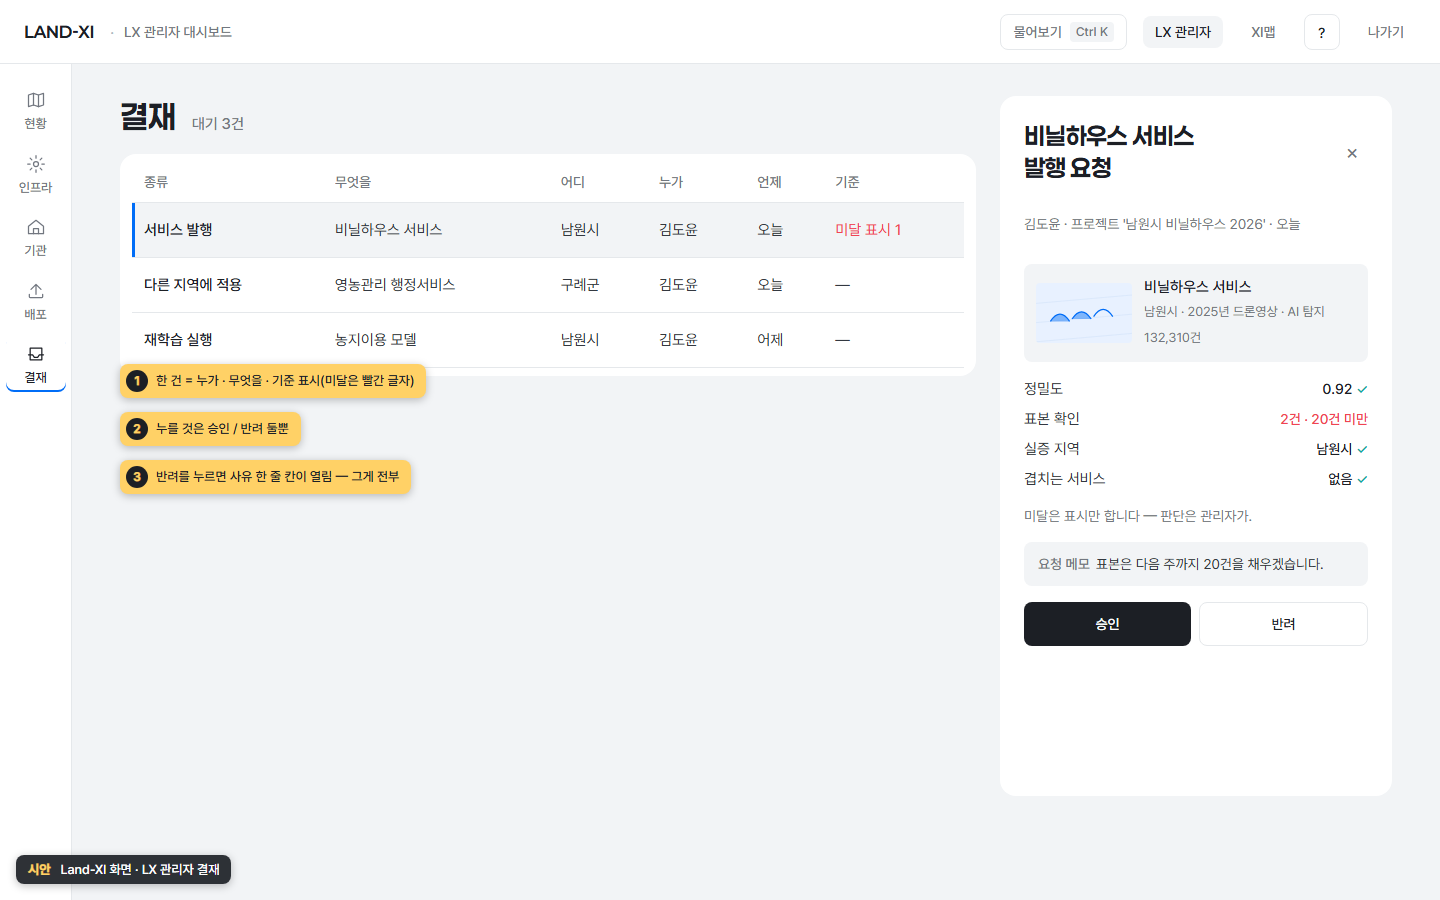
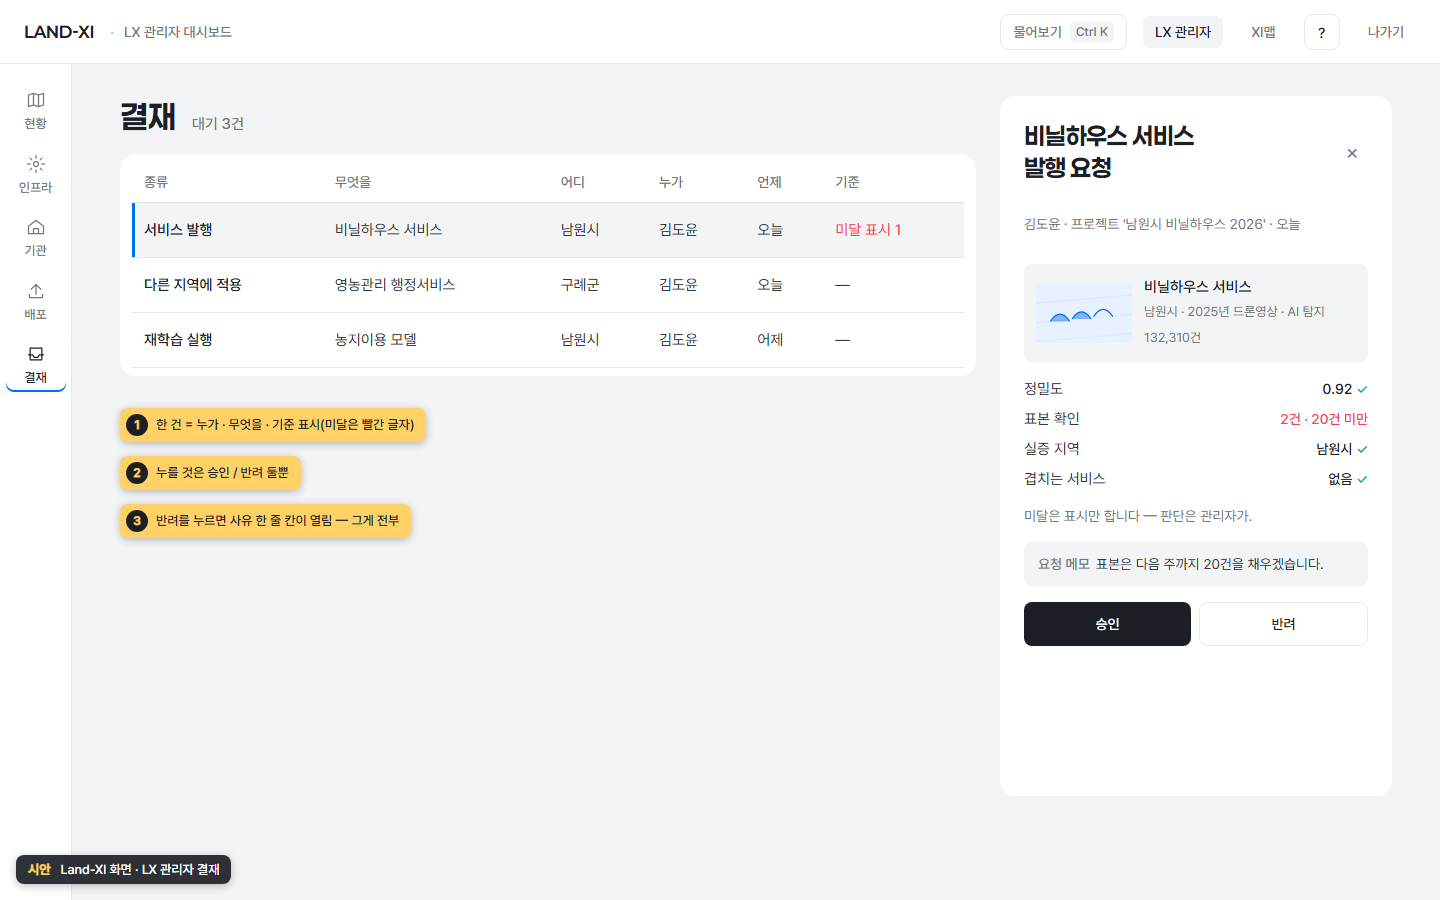
확인 요청 4차 시안 그림: 겹침·잘림 고침
Claude-Session: https://claude.ai/code/session_012dngviZxpCDduyLESvgdha

Changed region(s): [[0.0625, 0.4044, 0.3125, 0.6222]]

diff --git a/docs/superpowers/final/process/design-r4/mock/06-flow.html b/docs/superpowers/final/process/design-r4/mock/06-flow.html
@@ -5,12 +5,13 @@
 <title>그림 · 프로젝트와 서비스 카드 발행의 관계 — 프로젝트 안에서 만들고, 발행은 관리자가 승인</title>
 <link rel="stylesheet" href="mock.css">
 <style>
+body.m{height:710px}
 .wrap{position:absolute;inset:0;padding:40px 48px}
 h1{margin:0 0 6px;font:700 32px/42px var(--font-display);letter-spacing:-.01em;color:var(--ink)}
 .lead{margin:0 0 28px;font:400 16px/26px var(--font-body);color:var(--sub-2)}
-.stage{position:relative;height:560px}
+.stage{position:relative;height:500px}
 .box{position:absolute;background:var(--bg-1);border-radius:16px;padding:24px}
-.proj{left:0;top:0;width:880px;height:300px}
+.proj{left:0;top:116px;width:880px;height:280px}
 .proj .ttl{display:flex;align-items:baseline;gap:12px;margin-bottom:8px}
 .proj .ttl b{font:700 24px/32px var(--font-display);letter-spacing:-.02em;color:var(--ink)}
 .proj .ttl span{font:400 14px/20px var(--font-body);color:var(--sub)}
@@ -26,22 +27,24 @@ h1{margin:0 0 6px;font:700 32px/42px var(--font-display);letter-spacing:-.01em;c
 .st .t{font:500 15px/22px var(--font-body);color:var(--ink)}
 .st .d{font:400 13px/18px var(--font-body);color:var(--sub)}
 .st.now .t{font-weight:700}
-.adm{left:960px;top:0;width:384px;height:140px}
-.gov{left:960px;top:160px;width:384px;height:140px}
+.adm{left:960px;top:116px;width:384px;height:130px}
+.gov{left:960px;top:266px;width:384px;height:130px}
 .box h3{margin:0 0 6px;font:700 20px/28px var(--font-display);letter-spacing:-.01em;color:var(--ink)}
 .box p{margin:0;font:400 14px/21px var(--font-body);color:var(--sub-2)}
 .box p b{font-weight:500;color:var(--ink)}
-.band{position:absolute;top:340px;height:110px;border-radius:16px;padding:20px 24px;background:var(--bg-0);border:1.5px dashed var(--mute)}
+.band{position:absolute;top:0;height:92px;border-radius:16px;padding:16px 24px;background:var(--bg-0);border:1.5px dashed var(--mute)}
 .band.b1{left:0;width:880px}
 .band.b2{left:960px;width:384px}
 .band h4{margin:0 0 6px;font:500 18px/26px var(--font-body);color:var(--ink)}
 .band p{margin:0;font:400 14px/21px var(--font-body);color:var(--sub-2)}
 .arrows{position:absolute;inset:0;pointer-events:none;overflow:visible}
 .arrows path{fill:none;stroke:var(--ink);stroke-width:2}
+.arrows marker path{stroke:none;fill:var(--ink)}
+.arrows marker#w path{fill:#F04452}
 .arrows text{font:500 13px var(--font-body);fill:var(--ink)}
 .arrows .back path{stroke:var(--warn);stroke-dasharray:6 5}
 .arrows .back text{fill:var(--warn)}
-.legend{position:absolute;left:0;top:480px;display:flex;gap:24px;font:400 14px/20px var(--font-body);color:var(--sub)}
+.legend{position:absolute;left:0;top:478px;display:flex;gap:24px;font:400 14px/20px var(--font-body);color:var(--sub)}
 .legend i{display:inline-block;width:10px;height:10px;border-radius:50%;background:var(--accent);margin-right:6px;vertical-align:middle}
 .legend i.w{background:var(--warn)}
 </style>
@@ -53,10 +56,10 @@ h1{margin:0 0 6px;font:700 32px/42px var(--font-display);letter-spacing:-.01em;c
   <div class="stage">
     <div class="box proj">
       <div class="ttl"><b>프로젝트</b><span>예: 남원시 비닐하우스 2026 · 프로젝트장 김도윤</span></div>
-      <p class="who">직원이 바로 만듭니다(승인 없음) · 입력은 이름 · 무엇을 · 어디 세 가지 · 학습데이터(라벨링 · 검수)도 이 안에서</p>
+      <p class="who">직원이 바로 만듭니다(승인 없음) · 입력은 이름 · 무엇을 · 어디 세 가지 · 학습데이터(라벨링 · 확인)도 이 안에서</p>
       <div class="steps">
         <div class="st"><span class="c">1</span><span class="t">데이터 올리기</span><span class="d">영상 · 행정 자산</span></div>
-        <div class="st new"><span class="tag">새로 넣는 단계</span><span class="c">2</span><span class="t">학습데이터 구축</span><span class="d">라벨링 · 검수</span></div>
+        <div class="st new"><span class="tag">새로 넣는 단계</span><span class="c">2</span><span class="t">학습데이터 구축</span><span class="d">라벨링 · 확인</span></div>
         <div class="st"><span class="c">3</span><span class="t">학습</span><span class="d">표본 → 모델</span></div>
         <div class="st"><span class="c">4</span><span class="t">모델</span><span class="d">정밀도 확인</span></div>
         <div class="st"><span class="c">5</span><span class="t">결과 확인</span><span class="d">실증 지역 표본</span></div>
@@ -79,16 +82,16 @@ h1{margin:0 0 6px;font:700 32px/42px var(--font-display);letter-spacing:-.01em;c
       <h4>발행 후 — LX 관리자가 맡습니다</h4>
       <p>갱신을 관리하고, 필요하면 재학습을 지시합니다.</p>
     </div>
-    <svg class="arrows" viewBox="0 0 1344 560" aria-hidden="true">
+    <svg class="arrows" viewBox="0 0 1344 500" aria-hidden="true">
       <defs><marker id="a" viewBox="0 0 10 10" refX="9" refY="5" markerWidth="8" markerHeight="8" orient="auto"><path d="M0 0L10 5 0 10z" fill="var(--ink)"/></marker>
       <marker id="w" viewBox="0 0 10 10" refX="9" refY="5" markerWidth="8" markerHeight="8" orient="auto"><path d="M0 0L10 5 0 10z" fill="#F04452"/></marker></defs>
-      <path d="M880 70 H958" marker-end="url(#a)"/>
-      <text x="892" y="60">요청</text>
-      <path d="M1152 140 V158" marker-end="url(#a)"/>
-      <text x="1162" y="154">승인</text>
+      <path d="M880 181 H958" marker-end="url(#a)"/>
+      <text x="892" y="171">요청</text>
+      <path d="M1152 246 V264" marker-end="url(#a)"/>
+      <text x="1162" y="260">승인</text>
       <g class="back">
-        <path d="M960 460 C 800 460, 560 470, 420 470 C 340 470, 320 400, 320 320" marker-end="url(#w)"/>
-        <text x="560" y="452">재학습 지시 → 같은 프로젝트의 학습데이터 구축·학습 단계로(2차)</text>
+        <path d="M1152 398 V440 H300 V400" marker-end="url(#w)"/>
+        <text x="316" y="463">재학습 지시 → 같은 프로젝트의 학습데이터 구축·학습 단계로(2차)</text>
       </g>
     </svg>
     <div class="legend"><span><i></i>지금 물어보는 단계(발행 요청)</span><span><i class="w"></i>발행 뒤 관리자가 시키는 재학습</span></div>

diff --git a/docs/superpowers/final/process/design-r4/mock/L1-step.html b/docs/superpowers/final/process/design-r4/mock/L1-step.html
@@ -2,7 +2,7 @@
 <html lang="ko">
 <head>
 <meta charset="utf-8">
-<title>시안 ⓐ · Land-XI LX 직원 — 프로젝트 단계 '학습데이터 구축(라벨링·검수)' 안에서 라벨 도구가 열림</title>
+<title>시안 ⓐ · Land-XI LX 직원 — 프로젝트 단계 '학습데이터 구축(라벨링·확인)' 안에서 라벨 도구가 열림</title>
 <link rel="stylesheet" href="mock.css">
 <style>
 .m-rail--steps .m-rail-i{padding:4px 0}
@@ -49,28 +49,28 @@
     <div class="page">
       <div class="crumb"><h1>학습데이터 구축</h1><span>남원시 비닐하우스 2026 · 남원시 · 2025년 드론영상</span></div>
       <section class="tool">
-        <div class="bar">라벨 도구<span>자동 라벨 → 검수 → 학습 표본</span><span class="t-chip">이 화면 안에서 열림</span></div>
+        <div class="bar">라벨 도구<span>자동 라벨 → 확인 → 학습 표본</span><span class="t-chip">이 화면 안에서 열림</span></div>
         <div class="body"></div>
       </section>
       <aside class="side">
         <div class="card">
           <h3>이 단계에서 하는 일</h3>
           <div class="r">자동 라벨 <span>AI가 먼저 그림</span></div>
-          <div class="r">검수 <span>직원이 맞는지 확인</span></div>
-          <div class="r">학습 표본으로 <span>검수 끝난 것만</span></div>
-          <p class="m-small">검수가 끝나면 다음 단계 '학습'으로 넘어갑니다.</p>
+          <div class="r">확인 <span>직원이 맞는지 살펴봄</span></div>
+          <div class="r">학습 표본으로 <span>확인 끝난 것만</span></div>
+          <p class="m-small">확인이 끝나면 다음 단계 '학습'으로 넘어갑니다.</p>
         </div>
         <div class="card">
           <h3>다음 할 일</h3>
-          <p class="m-body">검수 대기 표본을 확인하세요.</p>
-          <button class="t-btn">검수 시작</button>
+          <p class="m-body">확인 대기 표본을 살펴보세요.</p>
+          <button class="t-btn">확인 시작</button>
         </div>
       </aside>
     </div>
 
-    <span class="m-note" style="left:120px;top:140px"><i>1</i>'학습데이터 구축'이 프로젝트 단계로 들어옴(데이터 올리기와 학습 사이)</span>
-    <span class="m-note" style="left:120px;top:188px"><i>2</i>라벨 도구(AXIS-Label)가 새 창이 아니라 이 틀 안에서 열림 — 위 마스트 · 왼쪽 단계는 그대로</span>
-    <span class="m-note" style="left:120px;top:236px"><i>3</i>지금은 도구 로그인 화면까지만 보임(연결 전) — 연결되면 자동 라벨 · 검수 대기열이 여기에</span>
+    <span class="m-note" style="left:120px;top:140px;max-width:640px"><i>1</i>'학습데이터 구축'이 프로젝트 단계로 들어옴(데이터 올리기와 학습 사이)</span>
+    <span class="m-note" style="left:120px;top:188px;max-width:640px"><i>2</i>라벨 도구(AXIS-Label)가 새 창이 아니라 이 틀 안에서 열림 — 위 마스트 · 왼쪽 단계는 그대로</span>
+    <span class="m-note" style="left:120px;top:236px;max-width:640px"><i>3</i>지금은 도구 로그인 화면까지만 보임(연결 전) — 연결되면 자동 라벨 · 확인 대기열이 여기에</span>
   </main>
 </div>
 <span class="m-stamp"><b>시안 ⓐ</b> Land-XI 화면 · LX 직원 프로젝트 2단계 '학습데이터 구축'</span>

diff --git a/docs/superpowers/final/process/design-r4/mock/01b-namwon.html b/docs/superpowers/final/process/design-r4/mock/01b-namwon.html
@@ -107,9 +107,9 @@
     </div>
     <div class="foot"><b>전북특별자치도 남원시</b><span>대표전화 063-620-6114</span><span>AI 분석 · 모델 개발과 갱신 — LX 한국국토정보공사</span></div>
 
-    <span class="m-note" style="left:660px;top:10px"><i>1</i>첫 화면이 지도가 아니라 '내 서비스' 카드 — 지도는 서비스 안에서</span>
-    <span class="m-note" style="left:660px;top:58px"><i>2</i>남원시가 실제로 받는 서비스 4개(2023 → 2027) · 카드 그림은 기관색</span>
-    <span class="m-note" style="left:48px;top:770px"><i>3</i>왼쪽 메뉴 · 마크가 기관 것 · 바닥에 기관 연락처</span>
+    <span class="m-note" style="left:660px;top:10px;max-width:480px"><i>1</i>첫 화면이 지도가 아니라 '내 서비스' 카드 — 지도는 서비스 안에서</span>
+    <span class="m-note" style="left:660px;top:58px;max-width:480px"><i>2</i>남원시가 실제로 받는 서비스 4개(2023 → 2027) · 카드 그림은 기관색</span>
+    <span class="m-note" style="left:48px;top:716px"><i>3</i>왼쪽 메뉴 · 마크가 기관 것 · 바닥에 기관 연락처</span>
   </main>
 </div>
 <span class="m-stamp m-stamp--r"><b>시안 ⓑ</b> 기관 분기 화면 · 남원시 GeoVision(기관 관리자 — 서비스 4개가 모두 보임)</span>

diff --git a/docs/superpowers/final/process/design-r4/mock/03-admin-approve.html b/docs/superpowers/final/process/design-r4/mock/03-admin-approve.html
@@ -93,9 +93,9 @@ body.is-reject .btns .t-btn--2{border-color:var(--ink)}
       </aside>
     </div>
 
-    <span class="m-note" style="left:48px;top:300px"><i>1</i>한 건 = 누가 · 무엇을 · 기준 표시(미달은 빨간 글자)</span>
-    <span class="m-note" style="left:48px;top:348px"><i>2</i>누를 것은 승인 / 반려 둘뿐</span>
-    <span class="m-note" style="left:48px;top:396px"><i>3</i>반려를 누르면 사유 한 줄 칸이 열림 — 그게 전부</span>
+    <span class="m-note" style="left:48px;top:344px"><i>1</i>한 건 = 누가 · 무엇을 · 기준 표시(미달은 빨간 글자)</span>
+    <span class="m-note" style="left:48px;top:392px"><i>2</i>누를 것은 승인 / 반려 둘뿐</span>
+    <span class="m-note" style="left:48px;top:440px"><i>3</i>반려를 누르면 사유 한 줄 칸이 열림 — 그게 전부</span>
   </main>
 </div>
 <span class="m-stamp"><b>시안</b> Land-XI 화면 · LX 관리자 결재</span>

diff --git a/docs/superpowers/final/process/design-r4/mock/04-empty.html b/docs/superpowers/final/process/design-r4/mock/04-empty.html
@@ -44,8 +44,8 @@
       <aside class="mapc"><div class="m-map m-map--ortho" style="background-position:-760px -65px"></div></aside>
     </div>
 
-    <span class="m-note" style="left:660px;top:140px"><i>1</i>빈 화면 = 회백 카드 + 한 문장 + 버튼 하나(그림 없음)</span>
-    <span class="m-note" style="left:660px;top:188px"><i>2</i>'다음에 뭘 하면 되는지'가 문장에 들어감</span>
+    <span class="m-note" style="left:664px;top:140px;max-width:272px"><i>1</i>빈 화면 = 회백 카드 + 한 문장 + 버튼 하나(그림 없음)</span>
+    <span class="m-note" style="left:664px;top:204px;max-width:272px"><i>2</i>'다음에 뭘 하면 되는지'가 문장에 들어감</span>
   </main>
 </div>
 <span class="m-stamp"><b>시안</b> 둘 다 같은 모양 · 예: 남원시 GeoVision 할 일(기관 분기)</span>

diff --git a/docs/superpowers/final/process/design-r4/shoot.py b/docs/superpowers/final/process/design-r4/shoot.py
@@ -31,7 +31,7 @@ NEW = [
     ('04-error.html', 'new-4-error.png', (1440, 900)),
     ('05-gov-flag.html', 'new-5-gov-flag.png', (1440, 900)),
     ('05-staff-inbox.html', 'new-5-staff-inbox.png', (1440, 900)),
-    ('06-flow.html', 'new-6-flow.png', (1440, 900)),
+    ('06-flow.html', 'new-6-flow.png', (1440, 710)),  # 내용에 맞춘 높이(아래 빈 칸 없음)
     ('06-project-new.html', 'new-6-project-new.png', (1440, 900)),
     ('06-publish-request.html', 'new-6-publish-request.png', (1440, 900)),
     ('L1-step.html', 'new-L1-step.png', (1440, 900)),
